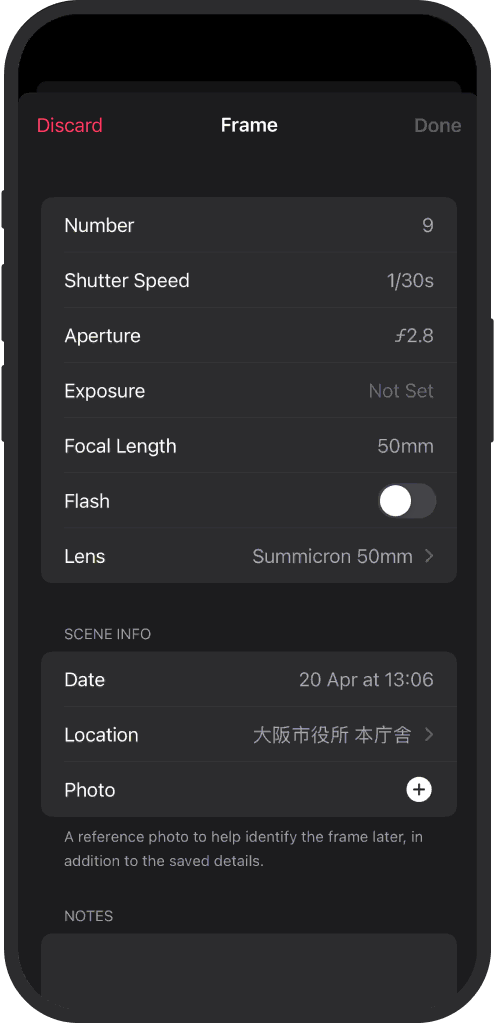
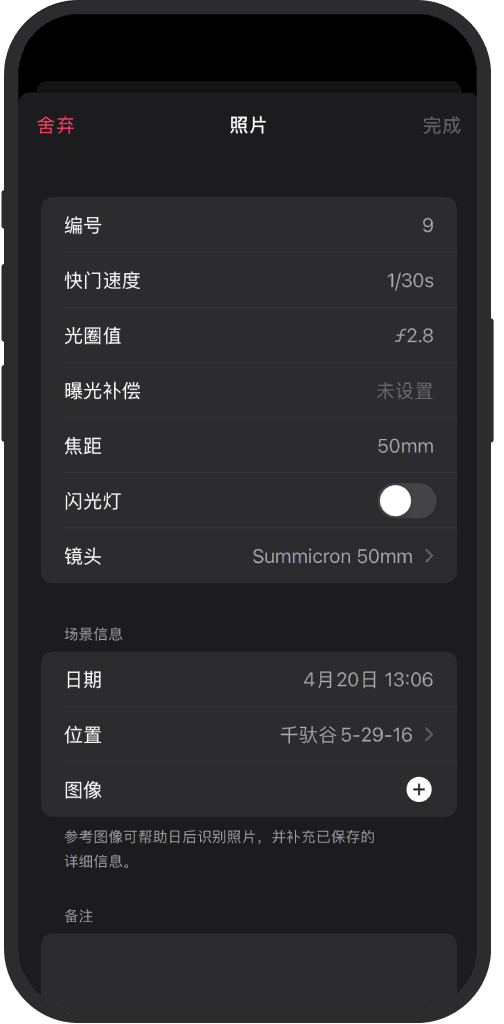
adds chinese mobile ss

diff --git a/zh/index.html b/zh/index.html
@@ -545,7 +545,7 @@
                             <blockquote cite="https://withframes.com">
                                 <img src="/library/img/icons/icon-quote.svg" alt="Quote" width="14" height="11" loading="lazy" />
                                 <h3 class="sr-only">胶片的EXIF解决方案</h3>
-                                <p>最近对胶片摄影重燃兴趣。在数字时代用EXIF保存拍摄数据已成常态，我想知道能否为胶片照片实现类似功能，于是发现了这个应用。它能预设镜头、光圈和快门速度，拍摄时按按钮即可自动按照片编号记录设置。时间和GPS位置也被记录，获得接近数码相机的细节水平。当然相机和iPhone可能有微小时间差，但可忽略不计。</p>
+                                <p>最近我对胶片摄影产生了怀旧之情，于是重新入门了。与过去不同，如今是数码相机的时代，拍摄信息能通过EXIF自动记录已经成为理所当然的事。我想知道是否也能以类似的方式记录用胶片拍摄的照片信息，于是查找了一下，最终找到了这个应用。在这个应用中，可以预先设定镜头、光圈和快门速度，只需在每次拍摄时按下按钮，就能按帧编号记录下各项设定值。同时还会记录时间和GPS信息，因此记录的完整性几乎与数码相机无异。当然，在时间方面，相机和iPhone之间可能会有一些时间差，不过这点就见仁见智了。记录可以导出为TXT或JSON格式，只要编写一个脚本传递给exiftool，就能轻松将数据写入照片。如果你在电脑上将底片转为正片、进行色调调整，并导出为JPEG文件，再写入EXIF数据，就可以像数码照片一样使用了。有一个比较小的限制是，每卷胶片的最大帧数被设定为40，如果你使用半格相机，就需要将第41帧以后的内容分到另一个记录中。由于一卷36张的胶卷可以拍出72帧，因此如果最大帧数能设为80就更方便了……（这点我已经反馈给作者了）。</p>
                             </blockquote>
                             <figcaption class="review-info sr-only">
                                 <span class="author">yaizawa</span> <span class="rating" aria-label="5" role="img">★★★★★</span> <time datetime="2022-05-13">2022-05-13</time>
